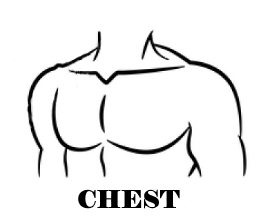
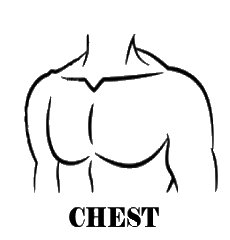
WL design is now completed!

diff --git a/app/src/main/java/com/example/ivo/gymbuddy/SeeWorkouts.java b/app/src/main/java/com/example/ivo/gymbuddy/SeeWorkouts.java
@@ -16,6 +16,7 @@ import android.view.Gravity;
 import android.view.View;
 import android.view.ViewGroup;
 import android.widget.Button;
+import android.widget.ImageView;
 import android.widget.LinearLayout;
 import android.widget.RelativeLayout;
 import android.widget.TextView;
@@ -42,6 +43,7 @@ public class SeeWorkouts extends AppCompatActivity {
     private TextView date;
     private TextView duration;
     private CardView cardView;
+    private ImageView workoutIcon;
 
     @Override
     protected void onCreate(Bundle savedInstanceState) {
@@ -62,6 +64,7 @@ public class SeeWorkouts extends AppCompatActivity {
             date = new TextView(context);
             duration = new TextView(context);
             cardView = new CardView(context);
+            workoutIcon = new ImageView(context);
 
             st = new StringTokenizer(s);
             while(st.hasMoreTokens()) {
@@ -84,7 +87,7 @@ public class SeeWorkouts extends AppCompatActivity {
 
             if(!workoutType.getText().toString().equals("")) {
                 cardView = makeCard(workoutType, date, duration);
-                linearLayout.addView(cardView);
+                linearLayout.addView(cardView, 0);
             }
         }
     }
@@ -126,7 +129,7 @@ public class SeeWorkouts extends AppCompatActivity {
         );
         int bottomMargin = (int) TypedValue.applyDimension(
                 TypedValue.COMPLEX_UNIT_DIP,
-                20,
+                15,
                 r.getDisplayMetrics()
         );
 
@@ -136,7 +139,7 @@ public class SeeWorkouts extends AppCompatActivity {
         cardView.setLayoutParams(params);
         cardView.setRadius(20);
 
-        cardView.setContentPadding(15, 15, 15, 15);
+        cardView.setContentPadding(15, 15, 0, 15);
         cardView.setCardBackgroundColor(Color.parseColor("#82CAFA"));
         cardView.setMaxCardElevation(15);
         cardView.setCardElevation(15);
@@ -145,9 +148,15 @@ public class SeeWorkouts extends AppCompatActivity {
                 ViewGroup.LayoutParams.WRAP_CONTENT, ViewGroup.LayoutParams.WRAP_CONTENT
         );
 
-        Toolbar.LayoutParams match_params = new Toolbar.LayoutParams(
+        Toolbar.LayoutParams match_params_height = new Toolbar.LayoutParams(
                 ViewGroup.LayoutParams.WRAP_CONTENT, ViewGroup.LayoutParams.MATCH_PARENT
         );
+
+        Toolbar.LayoutParams match_params = new Toolbar.LayoutParams(
+                ViewGroup.LayoutParams.MATCH_PARENT, ViewGroup.LayoutParams.MATCH_PARENT
+        );
+
+        LinearLayout main_layout = new LinearLayout(context);
 
         LinearLayout vertical_layout = new LinearLayout(context);
         vertical_layout.setOrientation(LinearLayout.VERTICAL);
@@ -159,6 +168,13 @@ public class SeeWorkouts extends AppCompatActivity {
         LinearLayout horizontal_layout_three = new LinearLayout(context);
         horizontal_layout_three.setLayoutParams(wrap_content_params);
 
+        LinearLayout vertical_layout_two = new LinearLayout(context);
+        vertical_layout_two.setOrientation(LinearLayout.VERTICAL);
+
+        workoutIcon = makeIcon(workoutType.getText().toString());
+
+        vertical_layout_two.addView(workoutIcon);
+
         horizontal_layout_one.addView(date);
         horizontal_layout_two.addView(duration);
         horizontal_layout_three.addView(workoutType);
@@ -167,20 +183,49 @@ public class SeeWorkouts extends AppCompatActivity {
         vertical_layout.addView(horizontal_layout_two);
         vertical_layout.addView(horizontal_layout_three);
 
-        vertical_layout.setLayoutParams(params);
+        vertical_layout.setLayoutParams(wrap_content_params);
 
-        cardView.addView(vertical_layout);
+        main_layout.setLayoutParams(params);
+        match_params.setMargins(260, 0, 0, 0);
+        vertical_layout_two.setLayoutParams(match_params);
+        vertical_layout_two.setGravity(Gravity.END);
+
+        main_layout.addView(vertical_layout);
+        main_layout.addView(vertical_layout_two);
+
+        cardView.addView(main_layout);
 
         return cardView;
     }
 
+    private ImageView makeIcon(String workout) {
+
+        ImageView imageView = new ImageView(context);
+
+        if(workout.equals("Chest"))
+            imageView.setImageResource(R.drawable.chest);
+        else if(workout.equals("Back"))
+            imageView.setImageResource(R.drawable.back);
+        else if(workout.equals("Shoulders"))
+            imageView.setImageResource(R.drawable.shoulders);
+        else if(workout.equals("Arms"))
+            imageView.setImageResource(R.drawable.arms);
+        else if(workout.equals("Legs"))
+            imageView.setImageResource(R.drawable.legs);
+        else if(workout.equals("Abs"))
+            imageView.setImageResource(R.drawable.abs);
+        else if(workout.equals("Run"))
+            imageView.setImageResource(R.drawable.run);
+        else if(workout.equals("Other"))
+            imageView.setImageResource(R.drawable.other);
+
+
+        imageView.setBackgroundColor(Color.TRANSPARENT);
+        return imageView;
+    }
+
     private TextView makeText(String token) {
         TextView textView = new TextView(context);
-        Toolbar.LayoutParams params = new Toolbar.LayoutParams(
-                Toolbar.LayoutParams.WRAP_CONTENT,
-                Toolbar.LayoutParams.WRAP_CONTENT
-        );
-
         textView.setText(token);
         return textView;
     }

diff --git a/app/src/main/java/com/example/ivo/gymbuddy/AddWorkout.java b/app/src/main/java/com/example/ivo/gymbuddy/AddWorkout.java
@@ -103,7 +103,8 @@ public class AddWorkout extends AppCompatActivity implements Workouts {
         String s_minutes = (minutes < 10) ? "0" + Integer.toString(minutes) : Integer.toString(minutes);
         String s_hours = (hours == 0) ? "0" : Integer.toString(hours);
 
-        s_time = s_hours + ":" + s_minutes + ":000";
+        s_time = String.format("%02d", minutes) + ":" + "00"
+                + ":" + "00";
 
         Calendar c = Calendar.getInstance();
         SimpleDateFormat df = new SimpleDateFormat("yyyy-MM-dd");
